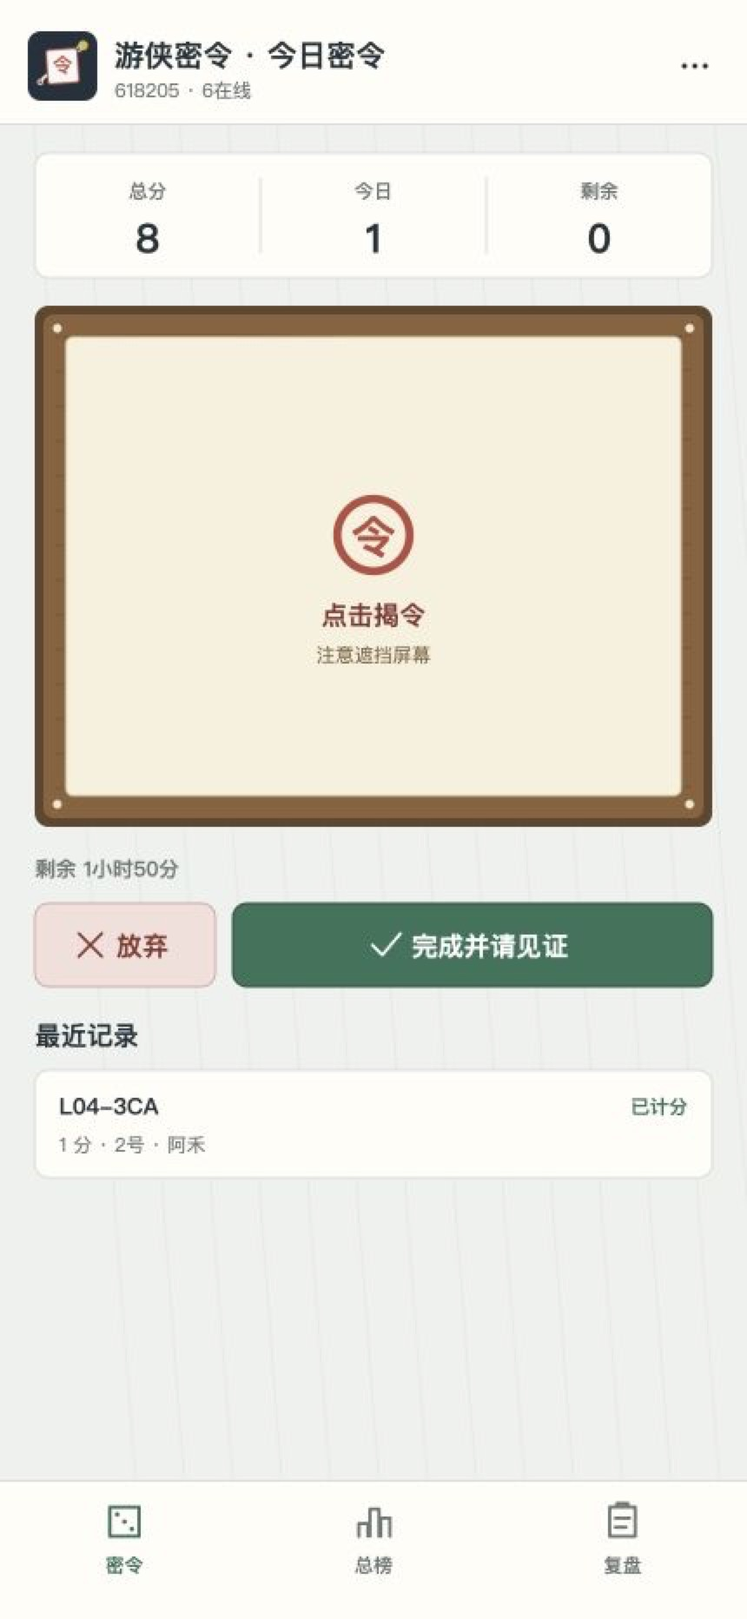
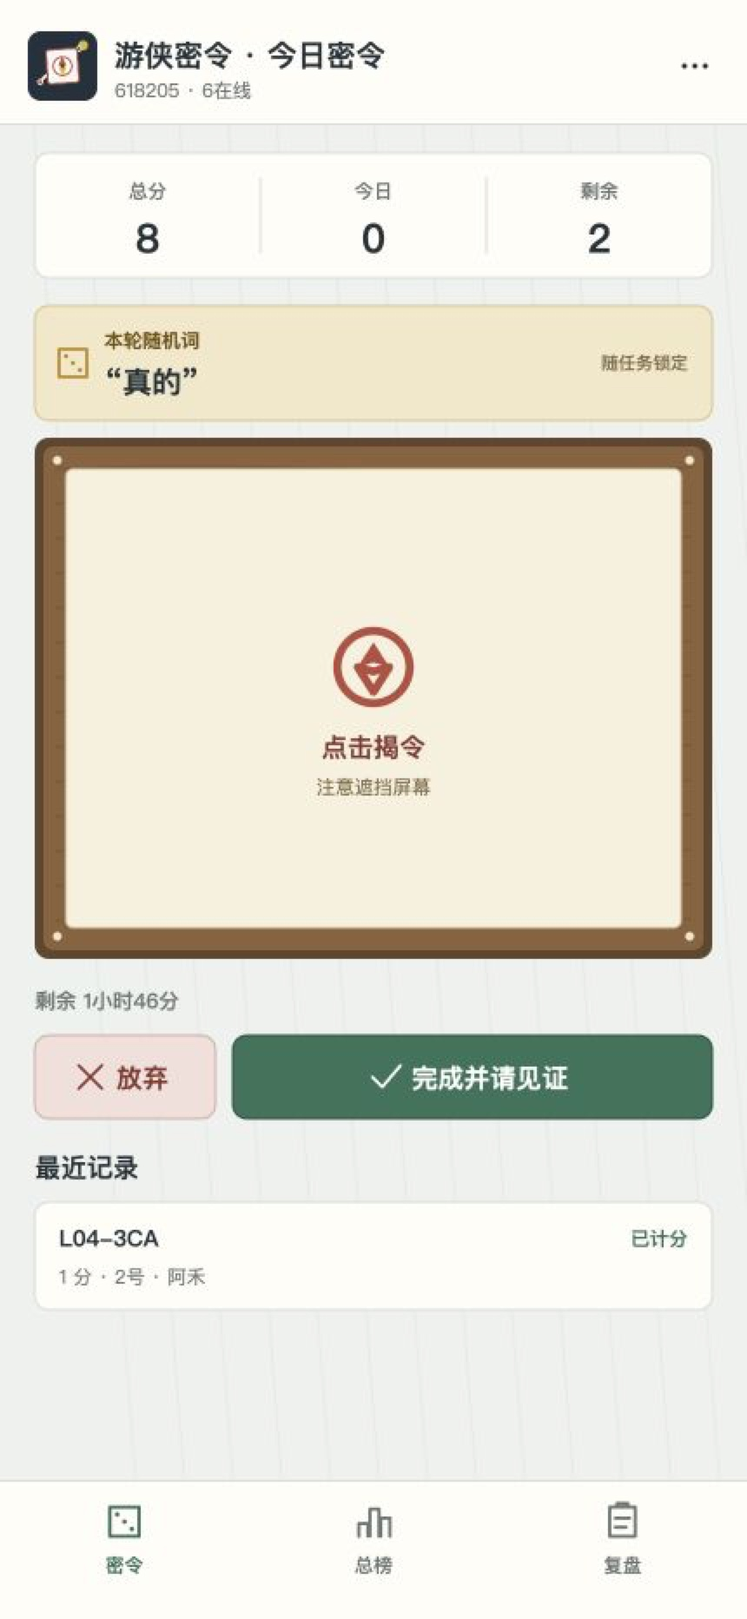
Add locked random words to mini game missions

diff --git a/wechat-minigame/preview/game.bundle.js b/wechat-minigame/preview/game.bundle.js
@@ -329,7 +329,9 @@ class TravelSecretGame {
   }
 
   drawTask() {
-    if (!this.room || this.room.status !== "playing" || this.local.activeTask) return;
+    if (!this.room) return this.showToast("房间尚未同步，请稍后再试");
+    if (this.room.status !== "playing") return this.showToast("当前不在密令阶段");
+    if (this.local.activeTask) return this.showToast("请先完成当前密令");
     const model = this.model();
     if (model.remainingDraws <= 0) return this.showToast("今日抽取次数已用完");
     try {
@@ -723,10 +725,14 @@ module.exports = {
 
 },
 4: function(module, exports, __require) {
-const WORDS = ["随便", "等一下", "我看看", "真的", "可以", "确定", "不知道", "没问题"];
+const WORDS = [
+  "随便", "等一下", "我看看", "真的", "可以", "确定", "不知道", "没问题",
+  "好像", "原来", "马上", "应该", "可能", "当然", "没关系", "再看看",
+  "差不多", "有道理", "然后呢", "你觉得", "怎么办", "太好了", "慢一点", "走吧",
+];
 
 const TASKS = [
-  { id: "L01", score: 1, minPlayers: 2, build: ({ target, word }) => `让${target}在自然对话中说出“${word}”。` },
+  { id: "L01", score: 1, minPlayers: 2, wordCount: 1, build: ({ target, word }) => `让${target}在自然对话中说出“${word}”。` },
   { id: "L02", score: 1, minPlayers: 2, build: ({ target }) => `让${target}问你一个包含“为什么”的问题。` },
   { id: "L03", score: 1, minPlayers: 2, build: ({ target }) => `让${target}主动问现在几点。` },
   { id: "L04", score: 1, minPlayers: 2, build: ({ target }) => `让${target}向你推荐一道菜或一家店。` },
@@ -738,22 +744,22 @@ const TASKS = [
   { id: "L10", score: 1, minPlayers: 2, build: ({ target }) => `让${target}在中文对话中自然说出一个非中文单词。` },
   { id: "L11", score: 1, minPlayers: 2, build: ({ target }) => `让${target}纠正你说错的一个无关紧要的常识。` },
   { id: "L12", score: 1, minPlayers: 3, build: ({ target, other }) => `让${target}把${other}叫到你们当前所在的安全位置。` },
-  { id: "M01", score: 2, minPlayers: 2, build: ({ target, word }) => `10 分钟内，让${target}先说“${word}”，再递给你一件允许的小物品。` },
+  { id: "M01", score: 2, minPlayers: 2, wordCount: 1, build: ({ target, word }) => `10 分钟内，让${target}先说“${word}”，再递给你一件允许的小物品。` },
   { id: "M02", score: 2, minPlayers: 2, build: ({ target }) => `让${target}先纠正一个无关紧要的错误，再继续追问一个相关问题。` },
-  { id: "M03", score: 2, minPlayers: 2, build: ({ target, word }) => `让${target}先向你推荐一道菜、歌或景点，随后自然说出“${word}”。` },
+  { id: "M03", score: 2, minPlayers: 2, wordCount: 1, build: ({ target, word }) => `让${target}先向你推荐一道菜、歌或景点，随后自然说出“${word}”。` },
   { id: "M04", score: 2, minPlayers: 2, build: ({ target }) => `让${target}先说出你的名字，再问你一个包含“为什么”的问题。` },
   { id: "M05", score: 2, minPlayers: 3, build: ({ target, other }) => `让${target}在 10 分钟内向你和${other}询问同一件无害的小事。` },
   { id: "M06", score: 2, minPlayers: 2, build: ({ target }) => `让${target}自然模仿一个安全小动作，随后问你一个问题。` },
   { id: "M07", score: 2, minPlayers: 3, build: ({ target }) => `让${target}提出一项小型集体活动，并让至少另一人同意参加。` },
   { id: "M08", score: 2, minPlayers: 3, build: ({ target, other }) => `让${target}主动询问${other}的菜品、歌曲或景点推荐。` },
-  { id: "M09", score: 2, minPlayers: 2, build: ({ target, word, secondWord }) => `10 分钟内，让${target}自然说出“${word}”和“${secondWord}”。` },
+  { id: "M09", score: 2, minPlayers: 2, wordCount: 2, build: ({ target, word, secondWord }) => `10 分钟内，让${target}自然说出“${word}”和“${secondWord}”。` },
   { id: "M10", score: 2, minPlayers: 2, build: ({ target }) => `让${target}主动决定一次合照的站位或拍摄角度，并完成拍摄。` },
-  { id: "H01", score: 3, minPlayers: 3, build: ({ target, other, word }) => `让${target}在不知情的情况下，引导${other}说出“${word}”。` },
-  { id: "H02", score: 3, minPlayers: 3, build: ({ target, other, word }) => `30 分钟内，让${target}和${other}在互不商量时分别说出“${word}”。` },
+  { id: "H01", score: 3, minPlayers: 3, wordCount: 1, build: ({ target, other, word }) => `让${target}在不知情的情况下，引导${other}说出“${word}”。` },
+  { id: "H02", score: 3, minPlayers: 3, wordCount: 1, build: ({ target, other, word }) => `30 分钟内，让${target}和${other}在互不商量时分别说出“${word}”。` },
   { id: "H03", score: 3, minPlayers: 4, build: ({ target }) => `让${target}主动发起并完成一项至少 3 人参与、5 分钟以内的小活动。` },
   { id: "H04", score: 3, minPlayers: 4, build: ({ target, other }) => `让${target}主动邀请${other}参加一次至少 4 人的合照，并完成拍摄。` },
   { id: "H05", score: 3, minPlayers: 3, build: ({ target, other }) => `让${target}给出一项推荐，并自然说服${other}明确表示赞同。` },
-  { id: "H06", score: 3, minPlayers: 2, build: ({ target, word }) => `15 分钟内，让${target}依次说出你的名字、递给你一件允许物品、再说出“${word}”。` },
+  { id: "H06", score: 3, minPlayers: 2, wordCount: 1, build: ({ target, word }) => `15 分钟内，让${target}依次说出你的名字、递给你一件允许物品、再说出“${word}”。` },
   { id: "H07", score: 3, minPlayers: 3, build: ({ target, other }) => `让${target}纠正你一个无关紧要的错误，再主动请${other}确认。` },
   { id: "H08", score: 3, minPlayers: 3, build: ({ target, other }) => `15 分钟内，让${target}分别向你和${other}提出两个不同问题，其中一个包含“为什么”，另一个包含“哪里”。` },
 ];
@@ -802,6 +808,7 @@ function drawMission({ players, selfId, history = [], random = Math.random, now 
   const word = randomItem(WORDS, random);
   let secondWord = randomItem(WORDS.filter((item) => item !== word), random);
   if (!secondWord) secondWord = "没问题";
+  const randomWords = task.wordCount === 2 ? [word, secondWord] : task.wordCount === 1 ? [word] : [];
   const code = `${task.id}-${Math.floor(random() * 46656).toString(36).padStart(3, "0").toUpperCase()}`;
 
   return {
@@ -811,6 +818,7 @@ function drawMission({ players, selfId, history = [], random = Math.random, now 
     score: task.score,
     targetId: target.id,
     targetName: playerLabel(target),
+    randomWords,
     description: task.build({
       target: playerLabel(target),
       other: playerLabel(other),
@@ -825,7 +833,6 @@ function drawMission({ players, selfId, history = [], random = Math.random, now 
 }
 
 module.exports = { TASKS, WORDS, dateKey, drawMission, playerLabel };
-
 
 },
 5: function(module, exports, __require) {
@@ -928,6 +935,8 @@ const STATUS_LABELS = {
   ended: "旅程结束",
 };
 
+const TOUCH_SLOP = 12;
+
 function getWindowInfo() {
   if (wx.getWindowInfo) return wx.getWindowInfo();
   return wx.getSystemInfoSync();
@@ -976,8 +985,9 @@ class GameRenderer {
       const point = event.touches?.[0];
       if (!point) return;
       const delta = point.clientY - this.touch.startY;
-      if (Math.abs(delta) > 5) this.touch.moved = true;
-      if (this.maxScroll > 0 && this.touch.startY > this.headerHeight && this.touch.startY < this.height - this.navHeight) {
+      const distance = Math.hypot(point.clientX - this.touch.x, point.clientY - this.touch.y);
+      if (distance > TOUCH_SLOP) this.touch.moved = true;
+      if (this.touch.moved && this.maxScroll > 0 && this.touch.startY > this.headerHeight && this.touch.startY < this.height - this.navHeight) {
         const next = Math.max(0, Math.min(this.maxScroll, this.touch.startScroll - delta));
         this.scrollByScreen[this.model.screen] = next;
         this.render(this.model);
@@ -986,7 +996,7 @@ class GameRenderer {
     wx.onTouchEnd((event) => {
       if (!this.touch) return;
       const point = event.changedTouches?.[0] || this.touch;
-      const moved = this.touch.moved || Math.hypot(point.clientX - this.touch.x, point.clientY - this.touch.y) > 8;
+      const moved = this.touch.moved || Math.hypot(point.clientX - this.touch.x, point.clientY - this.touch.y) > TOUCH_SLOP;
       if (!moved) {
         const hit = [...this.hits].reverse().find((item) => (
           point.clientX >= item.x && point.clientX <= item.x + item.width
@@ -1242,7 +1252,7 @@ class GameRenderer {
     this.button({ x: 20, y: buttonY + 66, width: this.width - 40, height: 54, label: model.inviteCode ? `加入房间 ${model.inviteCode}` : "输入房间号", action: "join_room", kind: "secondary", icon: "seal" });
     this.hit("show_rules", center - 70, buttonY + 136, 140, 40);
     this.text("规则与安全边界", center, buttonY + 156, 13, COLORS.blue, "center", "500");
-    this.text("v1 · 微信小游戏版", center, this.height - this.safeBottom - 22, 11, "#929a97", "center", "400");
+    this.text("v1.0.1 · 微信小游戏版", center, this.height - this.safeBottom - 22, 11, "#929a97", "center", "400");
   }
 
   drawHeader(model, title = "游侠密令") {
@@ -1364,6 +1374,17 @@ class GameRenderer {
     this.button({ x: this.width - 96, y: y + 80, width: 76, height: 28, label: "确认", action: "approve_claim", payload: claim.id, kind: "primary" });
   }
 
+  drawRandomWordPanel(task, y) {
+    const words = Array.isArray(task.randomWords) ? task.randomWords : [];
+    if (!words.length) return 0;
+    this.panel(20, y, this.width - 40, 66, COLORS.goldSoft, "#ddc38c", 8);
+    this.icon("dice", 42, y + 33, COLORS.gold, 20);
+    this.text("本轮随机词", 60, y + 20, 11, "#71521c", "left", "600");
+    this.text(words.map((word) => `“${word}”`).join("  "), 60, y + 44, 17, COLORS.ink, "left", "700");
+    this.text("随任务锁定", this.width - 34, y + 33, 10, "#846f50", "right", "500");
+    return 76;
+  }
+
   drawMissions(model) {
     this.drawHeader(model, "今日密令");
     const offset = -this.currentScroll();
@@ -1377,6 +1398,7 @@ class GameRenderer {
     }
 
     if (model.activeTask) {
+      y += this.drawRandomWordPanel(model.activeTask, y);
       this.drawWoodBoard(20, y, this.width - 40, 300, model.activeTask);
       y += 314;
       this.text(`剩余 ${model.taskTimeLeft}`, 20, y + 10, 12, COLORS.muted, "left", "500");

diff --git a/wechat-minigame/src/tasks.js b/wechat-minigame/src/tasks.js
@@ -1,7 +1,11 @@
-const WORDS = ["随便", "等一下", "我看看", "真的", "可以", "确定", "不知道", "没问题"];
+const WORDS = [
+  "随便", "等一下", "我看看", "真的", "可以", "确定", "不知道", "没问题",
+  "好像", "原来", "马上", "应该", "可能", "当然", "没关系", "再看看",
+  "差不多", "有道理", "然后呢", "你觉得", "怎么办", "太好了", "慢一点", "走吧",
+];
 
 const TASKS = [
-  { id: "L01", score: 1, minPlayers: 2, build: ({ target, word }) => `让${target}在自然对话中说出“${word}”。` },
+  { id: "L01", score: 1, minPlayers: 2, wordCount: 1, build: ({ target, word }) => `让${target}在自然对话中说出“${word}”。` },
   { id: "L02", score: 1, minPlayers: 2, build: ({ target }) => `让${target}问你一个包含“为什么”的问题。` },
   { id: "L03", score: 1, minPlayers: 2, build: ({ target }) => `让${target}主动问现在几点。` },
   { id: "L04", score: 1, minPlayers: 2, build: ({ target }) => `让${target}向你推荐一道菜或一家店。` },
@@ -13,22 +17,22 @@ const TASKS = [
   { id: "L10", score: 1, minPlayers: 2, build: ({ target }) => `让${target}在中文对话中自然说出一个非中文单词。` },
   { id: "L11", score: 1, minPlayers: 2, build: ({ target }) => `让${target}纠正你说错的一个无关紧要的常识。` },
   { id: "L12", score: 1, minPlayers: 3, build: ({ target, other }) => `让${target}把${other}叫到你们当前所在的安全位置。` },
-  { id: "M01", score: 2, minPlayers: 2, build: ({ target, word }) => `10 分钟内，让${target}先说“${word}”，再递给你一件允许的小物品。` },
+  { id: "M01", score: 2, minPlayers: 2, wordCount: 1, build: ({ target, word }) => `10 分钟内，让${target}先说“${word}”，再递给你一件允许的小物品。` },
   { id: "M02", score: 2, minPlayers: 2, build: ({ target }) => `让${target}先纠正一个无关紧要的错误，再继续追问一个相关问题。` },
-  { id: "M03", score: 2, minPlayers: 2, build: ({ target, word }) => `让${target}先向你推荐一道菜、歌或景点，随后自然说出“${word}”。` },
+  { id: "M03", score: 2, minPlayers: 2, wordCount: 1, build: ({ target, word }) => `让${target}先向你推荐一道菜、歌或景点，随后自然说出“${word}”。` },
   { id: "M04", score: 2, minPlayers: 2, build: ({ target }) => `让${target}先说出你的名字，再问你一个包含“为什么”的问题。` },
   { id: "M05", score: 2, minPlayers: 3, build: ({ target, other }) => `让${target}在 10 分钟内向你和${other}询问同一件无害的小事。` },
   { id: "M06", score: 2, minPlayers: 2, build: ({ target }) => `让${target}自然模仿一个安全小动作，随后问你一个问题。` },
   { id: "M07", score: 2, minPlayers: 3, build: ({ target }) => `让${target}提出一项小型集体活动，并让至少另一人同意参加。` },
   { id: "M08", score: 2, minPlayers: 3, build: ({ target, other }) => `让${target}主动询问${other}的菜品、歌曲或景点推荐。` },
-  { id: "M09", score: 2, minPlayers: 2, build: ({ target, word, secondWord }) => `10 分钟内，让${target}自然说出“${word}”和“${secondWord}”。` },
+  { id: "M09", score: 2, minPlayers: 2, wordCount: 2, build: ({ target, word, secondWord }) => `10 分钟内，让${target}自然说出“${word}”和“${secondWord}”。` },
   { id: "M10", score: 2, minPlayers: 2, build: ({ target }) => `让${target}主动决定一次合照的站位或拍摄角度，并完成拍摄。` },
-  { id: "H01", score: 3, minPlayers: 3, build: ({ target, other, word }) => `让${target}在不知情的情况下，引导${other}说出“${word}”。` },
-  { id: "H02", score: 3, minPlayers: 3, build: ({ target, other, word }) => `30 分钟内，让${target}和${other}在互不商量时分别说出“${word}”。` },
+  { id: "H01", score: 3, minPlayers: 3, wordCount: 1, build: ({ target, other, word }) => `让${target}在不知情的情况下，引导${other}说出“${word}”。` },
+  { id: "H02", score: 3, minPlayers: 3, wordCount: 1, build: ({ target, other, word }) => `30 分钟内，让${target}和${other}在互不商量时分别说出“${word}”。` },
   { id: "H03", score: 3, minPlayers: 4, build: ({ target }) => `让${target}主动发起并完成一项至少 3 人参与、5 分钟以内的小活动。` },
   { id: "H04", score: 3, minPlayers: 4, build: ({ target, other }) => `让${target}主动邀请${other}参加一次至少 4 人的合照，并完成拍摄。` },
   { id: "H05", score: 3, minPlayers: 3, build: ({ target, other }) => `让${target}给出一项推荐，并自然说服${other}明确表示赞同。` },
-  { id: "H06", score: 3, minPlayers: 2, build: ({ target, word }) => `15 分钟内，让${target}依次说出你的名字、递给你一件允许物品、再说出“${word}”。` },
+  { id: "H06", score: 3, minPlayers: 2, wordCount: 1, build: ({ target, word }) => `15 分钟内，让${target}依次说出你的名字、递给你一件允许物品、再说出“${word}”。` },
   { id: "H07", score: 3, minPlayers: 3, build: ({ target, other }) => `让${target}纠正你一个无关紧要的错误，再主动请${other}确认。` },
   { id: "H08", score: 3, minPlayers: 3, build: ({ target, other }) => `15 分钟内，让${target}分别向你和${other}提出两个不同问题，其中一个包含“为什么”，另一个包含“哪里”。` },
 ];
@@ -77,6 +81,7 @@ function drawMission({ players, selfId, history = [], random = Math.random, now 
   const word = randomItem(WORDS, random);
   let secondWord = randomItem(WORDS.filter((item) => item !== word), random);
   if (!secondWord) secondWord = "没问题";
+  const randomWords = task.wordCount === 2 ? [word, secondWord] : task.wordCount === 1 ? [word] : [];
   const code = `${task.id}-${Math.floor(random() * 46656).toString(36).padStart(3, "0").toUpperCase()}`;
 
   return {
@@ -86,6 +91,7 @@ function drawMission({ players, selfId, history = [], random = Math.random, now 
     score: task.score,
     targetId: target.id,
     targetName: playerLabel(target),
+    randomWords,
     description: task.build({
       target: playerLabel(target),
       other: playerLabel(other),
@@ -100,4 +106,3 @@ function drawMission({ players, selfId, history = [], random = Math.random, now 
 }
 
 module.exports = { TASKS, WORDS, dateKey, drawMission, playerLabel };
-

diff --git a/wechat-minigame/src/ui.js b/wechat-minigame/src/ui.js
@@ -28,6 +28,8 @@ const STATUS_LABELS = {
   ended: "旅程结束",
 };
 
+const TOUCH_SLOP = 12;
+
 function getWindowInfo() {
   if (wx.getWindowInfo) return wx.getWindowInfo();
   return wx.getSystemInfoSync();
@@ -76,8 +78,9 @@ class GameRenderer {
       const point = event.touches?.[0];
       if (!point) return;
       const delta = point.clientY - this.touch.startY;
-      if (Math.abs(delta) > 5) this.touch.moved = true;
-      if (this.maxScroll > 0 && this.touch.startY > this.headerHeight && this.touch.startY < this.height - this.navHeight) {
+      const distance = Math.hypot(point.clientX - this.touch.x, point.clientY - this.touch.y);
+      if (distance > TOUCH_SLOP) this.touch.moved = true;
+      if (this.touch.moved && this.maxScroll > 0 && this.touch.startY > this.headerHeight && this.touch.startY < this.height - this.navHeight) {
         const next = Math.max(0, Math.min(this.maxScroll, this.touch.startScroll - delta));
         this.scrollByScreen[this.model.screen] = next;
         this.render(this.model);
@@ -86,7 +89,7 @@ class GameRenderer {
     wx.onTouchEnd((event) => {
       if (!this.touch) return;
       const point = event.changedTouches?.[0] || this.touch;
-      const moved = this.touch.moved || Math.hypot(point.clientX - this.touch.x, point.clientY - this.touch.y) > 8;
+      const moved = this.touch.moved || Math.hypot(point.clientX - this.touch.x, point.clientY - this.touch.y) > TOUCH_SLOP;
       if (!moved) {
         const hit = [...this.hits].reverse().find((item) => (
           point.clientX >= item.x && point.clientX <= item.x + item.width
@@ -342,7 +345,7 @@ class GameRenderer {
     this.button({ x: 20, y: buttonY + 66, width: this.width - 40, height: 54, label: model.inviteCode ? `加入房间 ${model.inviteCode}` : "输入房间号", action: "join_room", kind: "secondary", icon: "seal" });
     this.hit("show_rules", center - 70, buttonY + 136, 140, 40);
     this.text("规则与安全边界", center, buttonY + 156, 13, COLORS.blue, "center", "500");
-    this.text("v1 · 微信小游戏版", center, this.height - this.safeBottom - 22, 11, "#929a97", "center", "400");
+    this.text("v1.0.1 · 微信小游戏版", center, this.height - this.safeBottom - 22, 11, "#929a97", "center", "400");
   }
 
   drawHeader(model, title = "游侠密令") {
@@ -464,6 +467,17 @@ class GameRenderer {
     this.button({ x: this.width - 96, y: y + 80, width: 76, height: 28, label: "确认", action: "approve_claim", payload: claim.id, kind: "primary" });
   }
 
+  drawRandomWordPanel(task, y) {
+    const words = Array.isArray(task.randomWords) ? task.randomWords : [];
+    if (!words.length) return 0;
+    this.panel(20, y, this.width - 40, 66, COLORS.goldSoft, "#ddc38c", 8);
+    this.icon("dice", 42, y + 33, COLORS.gold, 20);
+    this.text("本轮随机词", 60, y + 20, 11, "#71521c", "left", "600");
+    this.text(words.map((word) => `“${word}”`).join("  "), 60, y + 44, 17, COLORS.ink, "left", "700");
+    this.text("随任务锁定", this.width - 34, y + 33, 10, "#846f50", "right", "500");
+    return 76;
+  }
+
   drawMissions(model) {
     this.drawHeader(model, "今日密令");
     const offset = -this.currentScroll();
@@ -477,6 +491,7 @@ class GameRenderer {
     }
 
     if (model.activeTask) {
+      y += this.drawRandomWordPanel(model.activeTask, y);
       this.drawWoodBoard(20, y, this.width - 40, 300, model.activeTask);
       y += 314;
       this.text(`剩余 ${model.taskTimeLeft}`, 20, y + 10, 12, COLORS.muted, "left", "500");

diff --git a/wechat-minigame/preview/wx-shim.js b/wechat-minigame/preview/wx-shim.js
@@ -39,9 +39,10 @@
       session: { roomCode: room.roomCode, playerId: room.self.id, seat: 1, name: "一山" },
       desiredCapacity: 8,
       activeTask: demoMode === "task" ? {
-        uid: "active-1", taskId: "M04", code: "M04-8QJ", score: 2,
+        uid: "active-1", taskId: "M03", code: "M03-8QJ", score: 2,
         targetId: "player-4", targetName: "4号 · 青川",
-        description: "让4号 · 青川先说出你的名字，再问你一个包含“为什么”的问题。",
+        randomWords: ["真的"],
+        description: "让4号 · 青川先向你推荐一道菜、歌或景点，随后自然说出“真的”。",
         drawnAt: Date.now() - 600000, expiresAt: Date.now() + 6600000,
         playedOn: "2026-07-28", revealed: true,
       } : null,

diff --git a/wechat-minigame/tests/tasks.test.js b/wechat-minigame/tests/tasks.test.js
@@ -34,3 +34,20 @@ test("draw avoids a recently used task when another task is available", () => {
   assert.notEqual(second.taskId, first.taskId);
   assert.notEqual(second.uid, first.uid);
 });
+
+test("stores the selected daily words on the mission until the next draw", () => {
+  const values = [0.5, 0.85, 0, 0, 0, 0, 0, 0];
+  let index = 0;
+  const task = drawMission({
+    players: players(4),
+    selfId: "p1",
+    random: () => values[index++] ?? 0,
+    now: 1785231000000,
+  });
+
+  assert.equal(task.taskId, "M09");
+  assert.deepEqual(task.randomWords, ["随便", "等一下"]);
+  assert.match(task.description, /随便/);
+  assert.match(task.description, /等一下/);
+  assert.deepEqual(JSON.parse(JSON.stringify(task)).randomWords, task.randomWords);
+});

diff --git a/wechat-minigame/src/app.js b/wechat-minigame/src/app.js
@@ -319,7 +319,9 @@ class TravelSecretGame {
   }
 
   drawTask() {
-    if (!this.room || this.room.status !== "playing" || this.local.activeTask) return;
+    if (!this.room) return this.showToast("房间尚未同步，请稍后再试");
+    if (this.room.status !== "playing") return this.showToast("当前不在密令阶段");
+    if (this.local.activeTask) return this.showToast("请先完成当前密令");
     const model = this.model();
     if (model.remainingDraws <= 0) return this.showToast("今日抽取次数已用完");
     try {

diff --git a/wechat-minigame/preview/index.html b/wechat-minigame/preview/index.html
@@ -17,6 +17,6 @@
     <canvas id="game-canvas"></canvas>
     <div class="preview-note">浏览器交互预览 · 正式版请用微信开发者工具</div>
     <script src="wx-shim.js"></script>
-    <script src="game.bundle.js?v=20260728-review"></script>
+    <script src="game.bundle.js?v=20260729-random-word"></script>
   </body>
 </html>

diff --git a/wechat-minigame/review-materials/submission-materials.md b/wechat-minigame/review-materials/submission-materials.md
@@ -16,7 +16,7 @@
 
 ### 整体玩法设计
 
-玩家创建或输入 6 位房间号加入 3–12 人的同行房间，并自定义昵称。房主在至少 3 人到齐后开始旅程。每名玩家每天最多抽取 2 条仅本人可见的随机密令，每条限时 2 小时，难度对应 1–3 分。完成任务后选择一名同行作为见证，见证人确认后分数才计入排行榜；放弃、超时或未通过均不计分。玩家可暂离或重新归队，暂离期间不会成为任务目标。每日可进入复盘，玩家选择当日印象，房主评选一次“今日最佳”并加 1 分；旅程结束后显示最终排名。
+玩家创建或输入 6 位房间号加入 3–12 人的同行房间，并自定义昵称。房主在至少 3 人到齐后开始旅程。每名玩家每天最多抽取 2 条仅本人可见的随机密令，每条限时 2 小时，难度对应 1–3 分。涉及日常用语的密令会同时生成本轮随机词并随任务锁定，直到下一次抽取任务才会更换。完成任务后选择一名同行作为见证，见证人确认后分数才计入排行榜；放弃、超时或未通过均不计分。玩家可暂离或重新归队，暂离期间不会成为任务目标。每日可进入复盘，玩家选择当日印象，房主评选一次“今日最佳”并加 1 分；旅程结束后显示最终排名。
 
 ### 上传截图（至少 3 张）
 
@@ -33,7 +33,7 @@
 
 ### 系统 1：任务系统
 
-系统从预设安全任务库随机抽取密令，任务内容仅保存在玩家本人设备。每人每天最多抽取 2 次，每条密令限时 2 小时，并根据难度标记 1、2 或 3 分；放弃、超时或未通过均不计分。
+系统从预设安全任务库随机抽取密令，任务内容仅保存在玩家本人设备。涉及日常用语的任务会从固定安全词库中抽取 1–2 个词，并与当前任务一起保存和显示，本轮不可重抽。每人每天最多抽取 2 次，每条密令限时 2 小时，并根据难度标记 1、2 或 3 分；放弃、超时或未通过均不计分。
 
 截图：`screenshots/04-secret-task.jpg`
 

diff --git a/wechat-minigame/README.md b/wechat-minigame/README.md
@@ -9,6 +9,7 @@
 - 6 位房间号和微信转发邀请。
 - 大厅、房主开局、旅程中、每日复盘、旅程结束五个阶段。
 - 每人每天 2 次私密任务，任务仅保存在本人设备，2 小时后超时。
+- 涉及日常用语的任务会同时抽取并显示本轮随机词；随机词随任务保存在本机，下一次抽取任务时才会更换。
 - 1、2、3 分任务；指定见证人确认后才正式计分。
 - 网络中断时保留待提交计分，恢复后自动重试。
 - 在线状态和“暂离本轮 / 重新归队”；暂离玩家不会成为任务目标。
@@ -19,7 +20,7 @@
 ## 导入微信开发者工具
 
 1. 在微信开发者工具中选择“小游戏”，导入本目录 `wechat-minigame/`。
-2. 将 [`project.config.json`](project.config.json) 中的 `touristappid` 替换为已申请的小游戏 AppID，或在开发者工具中重新选择 AppID。
+2. [`project.config.json`](project.config.json) 已配置小游戏 AppID `wx1ff4c15692a4e10f`；导入后确认开发者工具显示“游侠密令”。
 3. 在微信公众平台的“开发管理 → 开发设置 → 服务器域名”中，将下面地址加入 **request 合法域名**：
 
    ```text
